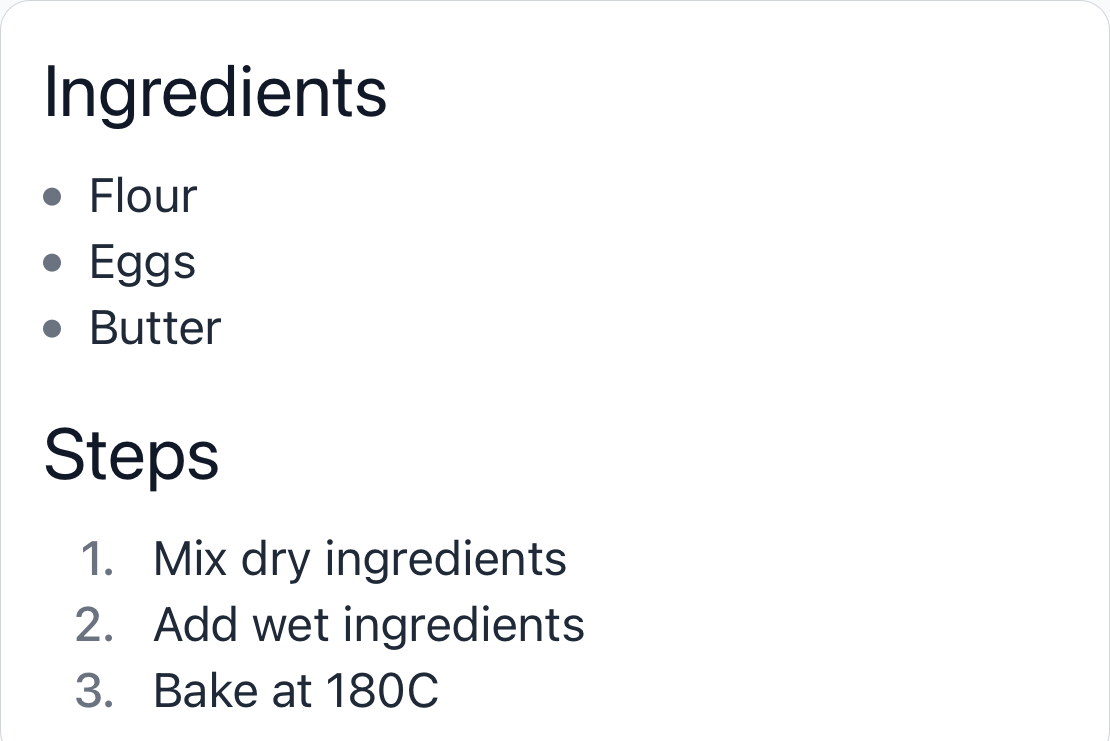
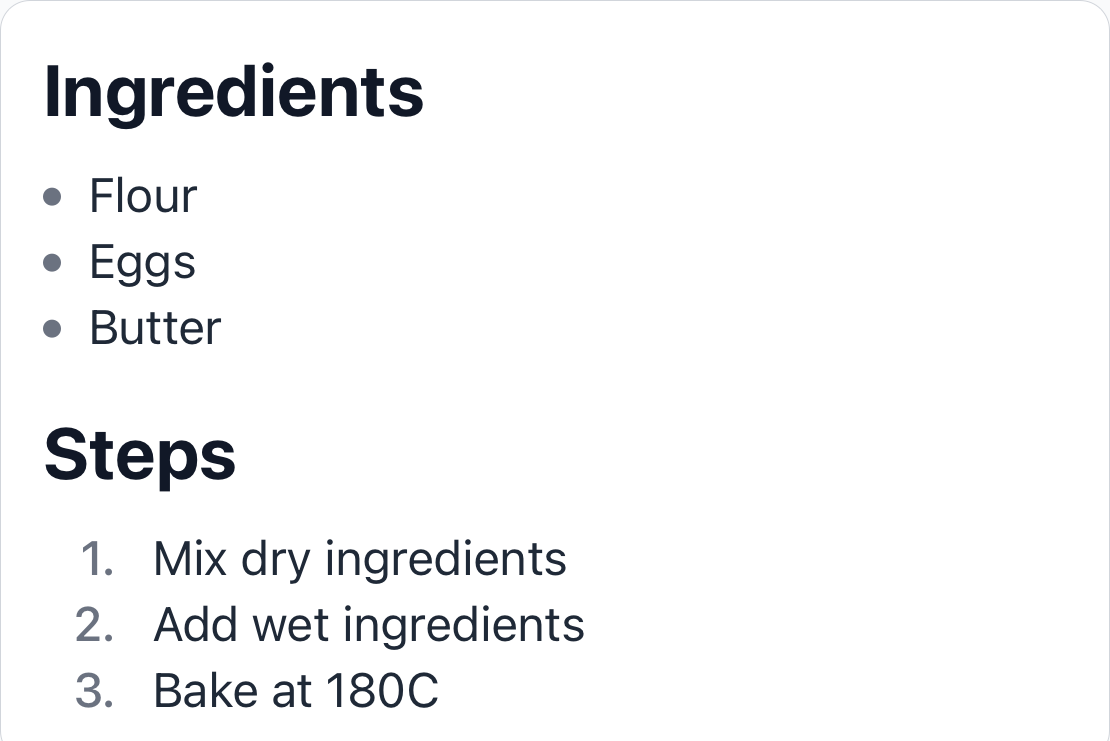
fix(ios): lists inside blockquotes lose their indent (#534)
* fix(ios): lists inside blockquotes lose their indent

* test: maestro tests

* test: fix screenshots

* fix(ios): preserve code block indent inside blockquoted list items

enumerateNonListRangesIn treated only ListDepthAttribute as list-owned,
but ListItemRenderer withholds that attribute from code-block subranges.
Also skip ranges carrying CodeBlockIndentAttributeName (set only for
code blocks nested in a list) so the blockquote pass no longer clobbers
their already-correct indent.

* feat: apply the cr suggestion

---------

Pull request: fix(ios): lists inside blockquotes lose their indent
###   What/Why?

On iOS, list items nested inside a blockquote lost their indentation — bullet/number markers rendered almost flush against the blockquote's border bar (~2pt instead of borderWidth + gapWidth), and the item text collapsed to plain-paragraph indent. Plain paragraphs inside the same blockquote were fine, so only list items were affected. This shape (a bold intro line followed by a bullet list inside a > block) is common in generated content, so the broken spacing was user-visible. Fixes #532.

#### Root cause
ListItemRenderer computed each item's paragraph indent with no awareness of the enclosing blockquote, then BlockquoteRenderer's applyBaseBlockquoteStyle stamped a single paragraph style (firstLineHeadIndent = headIndent =
blockquoteIndent) across the entire blockquote range, clobbering the list items' styles. reapplyNestedStyles only restored nested blockquotes, not lists, so list ranges kept the clobbered indent and the marker was drawn onto the border bar.

#### Fix
- ListItemRenderer.m — bake the enclosing blockquote indent into totalIndent using the live context.blockquoteDepth (0 outside a blockquote, so normal lists are byte-for-byte unchanged). Because totalIndent feeds both the paragraph headIndent and marker.indent, this fixes the marker position for free, LTR and RTL, with no ListMarkerDrawer change.
[…]

Changed region(s): [[0.0306, 0.0621, 0.3982, 0.1862], [0.0306, 0.5587, 0.2144, 0.6829]]

diff --git a/packages/react-native-enriched-markdown/ios/renderer/BlockquoteRenderer.m b/packages/react-native-enriched-markdown/ios/renderer/BlockquoteRenderer.m
@@ -1,6 +1,8 @@
 #import "BlockquoteRenderer.h"
 #import "BlockquoteBorder.h"
 #import "FontUtils.h"
+#import "LastElementUtils.h"
+#import "ListItemRenderer.h"
 #import "MarkdownASTNode.h"
 #import "ParagraphStyleUtils.h"
 #import "RendererFactory.h"
@@ -106,20 +108,27 @@ static NSString *const kNestedInfoRangeKey = @"range";
                  backgroundColor:(RCTUIColor *)backgroundColor
                       lineHeight:(CGFloat)lineHeight
 {
-  NSMutableParagraphStyle *paragraphStyle = getOrCreateParagraphStyle(output, blockquoteRange.location);
-  CGFloat totalIndent = [self calculateIndentForDepth:currentDepth levelSpacing:levelSpacing];
-  paragraphStyle.firstLineHeadIndent = totalIndent;
-  paragraphStyle.headIndent = totalIndent;
+  CGFloat totalIndent = blockquoteIndentForDepth(currentDepth + 1, levelSpacing);
 
-  NSMutableDictionary *newAttributes =
-      [NSMutableDictionary dictionaryWithObjectsAndKeys:paragraphStyle, NSParagraphStyleAttributeName, @(currentDepth),
-                                                        BlockquoteDepthAttributeName, nil];
+  // Depth and background cover the whole range so the border renders behind list content.
+  NSMutableDictionary *depthAttributes =
+      [NSMutableDictionary dictionaryWithObjectsAndKeys:@(currentDepth), BlockquoteDepthAttributeName, nil];
   if (backgroundColor) {
-    newAttributes[BlockquoteBackgroundColorAttributeName] = backgroundColor;
+    depthAttributes[BlockquoteBackgroundColorAttributeName] = backgroundColor;
   }
-  [output addAttributes:newAttributes range:blockquoteRange];
+  [output addAttributes:depthAttributes range:blockquoteRange];
 
-  applyLineHeight(output, blockquoteRange, lineHeight);
+  // List items bake the blockquote indent into their own paragraph style; only non-list content is stamped here.
+  [self enumerateNonListRangesIn:output
+                           range:blockquoteRange
+                      usingBlock:^(NSRange nonListRange) {
+                        NSMutableParagraphStyle *paragraphStyle =
+                            getOrCreateParagraphStyle(output, nonListRange.location);
+                        paragraphStyle.firstLineHeadIndent = totalIndent;
+                        paragraphStyle.headIndent = totalIndent;
+                        [output addAttribute:NSParagraphStyleAttributeName value:paragraphStyle range:nonListRange];
+                        applyLineHeight(output, nonListRange, lineHeight);
+                      }];
 }
 
 - (void)reapplyNestedStyles:(NSMutableAttributedString *)output
@@ -131,24 +140,59 @@ static NSString *const kNestedInfoRangeKey = @"range";
   for (NSDictionary *info in nestedInfo) {
     NSRange nestedRange = [info[kNestedInfoRangeKey] rangeValue];
     NSInteger nestedDepth = [info[kNestedInfoDepthKey] integerValue];
-    NSMutableParagraphStyle *style = getOrCreateParagraphStyle(output, nestedRange.location);
+    CGFloat indent = blockquoteIndentForDepth(nestedDepth + 1, levelSpacing);
 
-    CGFloat indent = [self calculateIndentForDepth:nestedDepth levelSpacing:levelSpacing];
-    style.firstLineHeadIndent = indent;
-    style.headIndent = indent;
-    style.tailIndent = 0;
+    [output addAttribute:BlockquoteDepthAttributeName value:info[kNestedInfoDepthKey] range:nestedRange];
 
-    [output
-        addAttributes:@{NSParagraphStyleAttributeName : style, BlockquoteDepthAttributeName : info[kNestedInfoDepthKey]}
-                range:nestedRange];
+    [self enumerateNonListRangesIn:output
+                             range:nestedRange
+                        usingBlock:^(NSRange nonListRange) {
+                          NSMutableParagraphStyle *style = getOrCreateParagraphStyle(output, nonListRange.location);
+                          style.firstLineHeadIndent = indent;
+                          style.headIndent = indent;
+                          style.tailIndent = 0;
+                          [output addAttribute:NSParagraphStyleAttributeName value:style range:nonListRange];
+                        }];
   }
 }
 
-#pragma mark - Helper Methods
-
-- (CGFloat)calculateIndentForDepth:(NSInteger)depth levelSpacing:(CGFloat)levelSpacing
+- (void)enumerateNonListRangesIn:(NSMutableAttributedString *)output
+                           range:(NSRange)range
+                      usingBlock:(void (^)(NSRange nonListRange))block
 {
-  return (depth + 1) * levelSpacing;
+  // List items — and code blocks nested inside them (which carry a list-derived
+  // indent instead of ListDepthAttribute) — already bake the correct indent in.
+  NSMutableArray<NSValue *> *listRanges = [NSMutableArray array];
+  void (^collectRanges)(NSString *) = ^(NSString *attribute) {
+    [output enumerateAttribute:attribute
+                       inRange:range
+                       options:0
+                    usingBlock:^(id value, NSRange subRange, BOOL *stop) {
+                      if (value) {
+                        [listRanges addObject:[NSValue valueWithRange:subRange]];
+                      }
+                    }];
+  };
+  collectRanges(ListDepthAttribute);
+  collectRanges(CodeBlockIndentAttributeName);
+  [listRanges sortUsingComparator:^NSComparisonResult(NSValue *a, NSValue *b) {
+    NSUInteger la = [a rangeValue].location;
+    NSUInteger lb = [b rangeValue].location;
+    return la < lb ? NSOrderedAscending : (la > lb ? NSOrderedDescending : NSOrderedSame);
+  }];
+
+  NSUInteger pos = range.location;
+  const NSUInteger end = NSMaxRange(range);
+  for (NSValue *val in listRanges) {
+    NSRange listRange = [val rangeValue];
+    if (pos < listRange.location) {
+      block(NSMakeRange(pos, listRange.location - pos));
+    }
+    pos = MAX(pos, NSMaxRange(listRange));
+  }
+  if (pos < end) {
+    block(NSMakeRange(pos, end - pos));
+  }
 }
 
 @end

diff --git a/packages/react-native-enriched-markdown/ios/renderer/ListItemRenderer.m b/packages/react-native-enriched-markdown/ios/renderer/ListItemRenderer.m
@@ -1,4 +1,5 @@
 #import "ListItemRenderer.h"
+#import "BlockquoteBorder.h"
 #import "ENRMUIKit.h"
 #import "LastElementUtils.h"
 #import "MarkdownASTNode.h"
@@ -51,8 +52,11 @@ NSString *const TaskIndexAttribute = @"TaskIndex";
                                   : (context.listType == ListTypeOrdered) ? [_config effectiveListMarginLeftForNumber]
                                                                           : [_config effectiveListMarginLeftForBullet];
 
-  const CGFloat totalIndent =
-      baseMarkerWidth + [_config effectiveListGapWidth] + (nestingLevel * [_config listStyleMarginLeft]);
+  const CGFloat blockquoteIndent =
+      blockquoteIndentForDepth(context.blockquoteDepth, [_config blockquoteBorderWidth] + [_config blockquoteGapWidth]);
+
+  const CGFloat totalIndent = blockquoteIndent + baseMarkerWidth + [_config effectiveListGapWidth] +
+                              (nestingLevel * [_config listStyleMarginLeft]);
 
   const NSUInteger startLocation = output.length;
 

diff --git a/packages/react-native-enriched-markdown/ios/utils/BlockquoteBorder.h b/packages/react-native-enriched-markdown/ios/utils/BlockquoteBorder.h
@@ -7,6 +7,11 @@ NS_ASSUME_NONNULL_BEGIN
 extern NSString *const BlockquoteDepthAttributeName;
 extern NSString *const BlockquoteBackgroundColorAttributeName;
 
+static inline CGFloat blockquoteIndentForDepth(NSInteger depth, CGFloat levelSpacing)
+{
+  return depth * levelSpacing;
+}
+
 @interface BlockquoteBorder : NSObject
 
 - (instancetype)initWithConfig:(StyleConfig *)config;